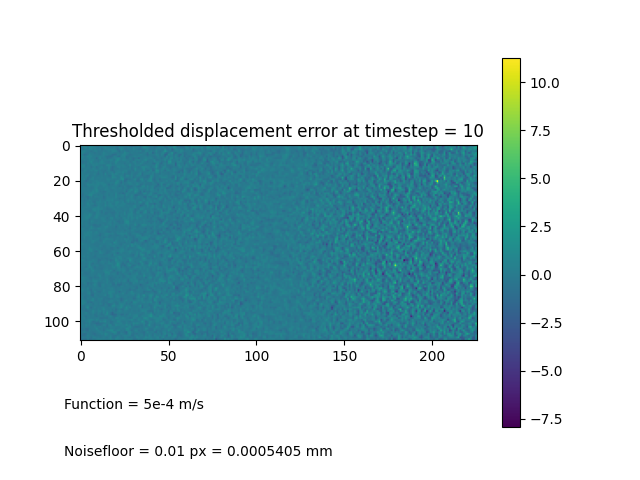
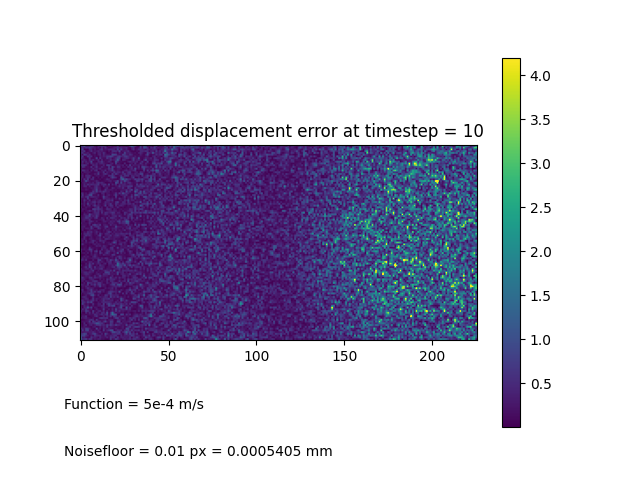
Error maps changed to show absolute error

diff --git a/dev/lsdev/2D_DIC_Deformation_Blender.md b/dev/lsdev/2D_DIC_Deformation_Blender.md
@@ -2,20 +2,6 @@
 
 After verifying the accuracy of Blender-produced images using rigid body motion images, images in which the object within was deforming were rendered.  
 
-
-## Contents
-- How set deformation
-- How compare - using image deformation  
-- Explain simcases chosen - all 2D so no out-of-plane motion 
-- Using simple analytical field - has known analytical solution
-- Use simple field at 2 scales - impact on error
-- Simple simcase with shearing
-- Case18 from pyvale simcases
-- Show error maps
-- Discuss error
-- Discuss impact of DIC params - further investigation can be done
-- Talk next steps - implementing 2 camera system to produce stereo DIC images?
-
 ## How deformation is set to the object in Blender  
 The SimData object was used to store not only the mesh data, but also the deformation data, as this meant that Blender code could be integrated into `pyvale`.  
 In order to deform the object, the displacements stored in the SimData object were applied to each individual node.  
@@ -31,10 +17,12 @@ The same simulation exodus file was used for both the Blender and image deformat
 The image deformation tool that was used was the one within `pyvale`. This tool has already been benchmarked against MatchID's own image deformation module, so benchmarking the Blender image rendering against it is deemed to be sufficient.  
 It should be noted that in order to accurately compare the data between the Blender images and image deformation images, the ROI had to be exactly the same, otherwise interpolation errors between the subsets caused false errors between the datasets.
 
-#### How the datasets were compared
+#### How the datasets were compared  
+The quantity of interest compared is the horizontal displacement, as this was directly imposed to the object in Blender.   
 The image deformation and Blender datasets were compared within MatchID (the image deformation data was subtracted from the Blender data) and this full-field data was extracted to python for further analysis.  
 The full-field data was plotted, to visualise the error across the whole ROI.    
 When analysing the error maps, the magnitude of error was related to a 'noisefloor' value. This noisefloor for all cases is taken to be 0.01 pixels.  
+For the cases with larger errors, the error data was made positive, and plotted with a maximum value of 4.2 times the noisefloor.   
 
 ## Chosen simulation cases  
 Four initial simulation cases were chosen as benchmarks:
@@ -145,7 +133,7 @@ Simulation case 18 had a displacement field with the pattern below:
 
 
 The error map for simulation case 18 can be seen to just be noise, with no clear deformation patterns.  
-It can be seen that there is an area of higher error at the top-left corner of the image, however this can be explained by DIC processing giving relatively larger errors at the ROI edges.  
+It can be seen that there is an area of higher error at the top-left corner of the image, however this is likely due to the mesh coarseness, and could be altered by making the mesh finer.  
 From the error map, you can see that most of the error is lower than the noise-floor, showing that the existing error is due to noise.  
 It should be noted that the error maps for each timestep are very similar, with the final timestep being chosen as an example, as it has the largest level of error.  
 
